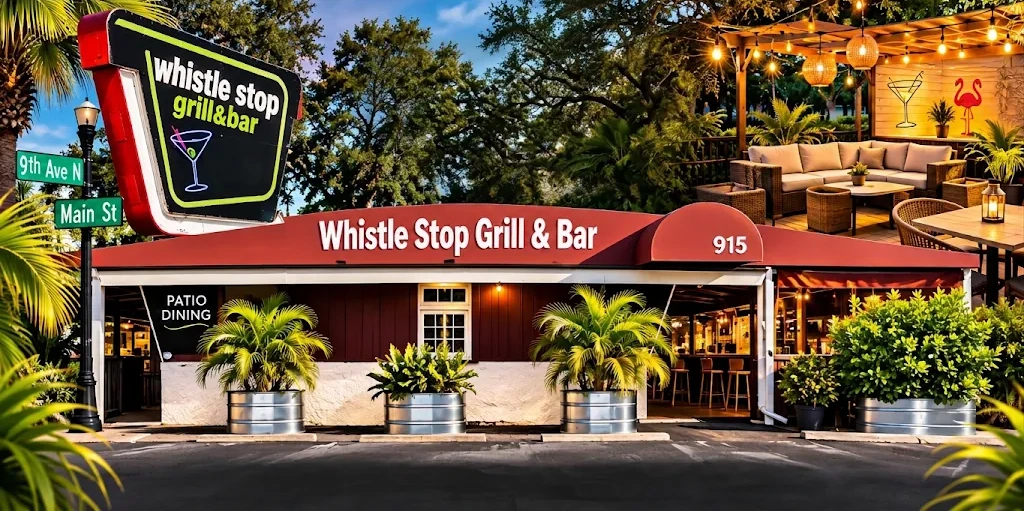
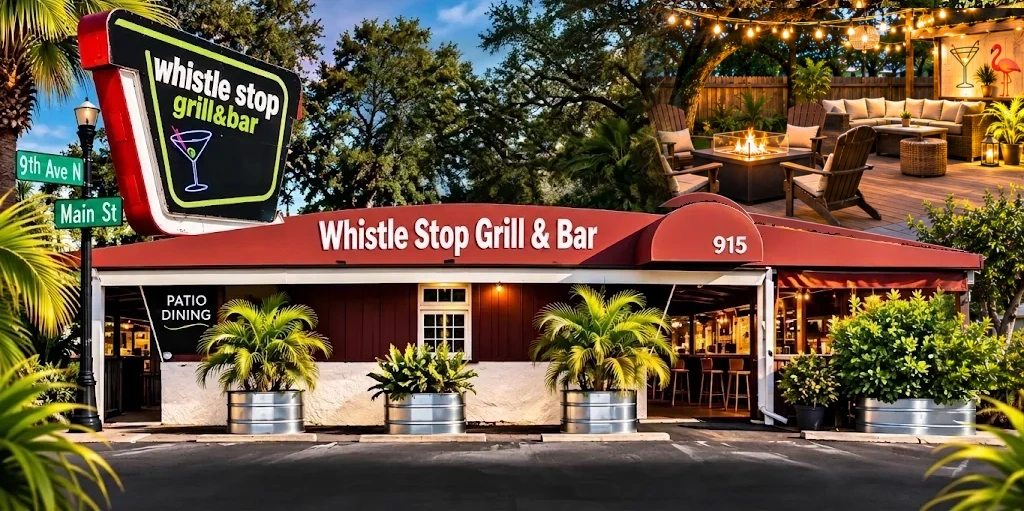
feat: put Dawn's fire pit into the cleaned hero photo

Changed region(s): [[0.625, 0.0, 1.0, 0.7632], [0.1875, 0.2055, 0.2188, 0.2348]]

diff --git a/site/homepage-options/15.html b/site/homepage-options/15.html
@@ -269,7 +269,7 @@
 
   <main>
     <section class="hero hero-art" data-hero="index">
-      <div class="hero-bg"><img class="hero-still" src="assets/gallery/ws-home-page-scene-dawn.webp?v=1" alt="Whistle Stop Grill and Bar at sunset, with the patio, string lights, and palms" width="1024" height="511"></div>
+      <div class="hero-bg"><img class="hero-still" src="assets/gallery/ws-home-page-scene-dawn.webp?v=2" alt="Whistle Stop Grill and Bar at sunset, with the patio, string lights, and palms" width="1024" height="511"></div>
       <div class="hero-overlay" aria-hidden="true"></div>
       <div class="container hero-aside">
         <div class="hero-social-float" data-include="partials/header-socials.html"></div>

diff --git a/site/homepage-options/16.html b/site/homepage-options/16.html
@@ -291,7 +291,7 @@
 
   <main>
     <section class="hero hero-art" data-hero="index">
-      <div class="hero-bg"><img class="hero-still" src="assets/gallery/ws-home-page-scene-dawn.webp?v=1" alt="Whistle Stop Grill and Bar at sunset, with the patio, string lights, and palms" width="1024" height="511"></div>
+      <div class="hero-bg"><img class="hero-still" src="assets/gallery/ws-home-page-scene-dawn.webp?v=2" alt="Whistle Stop Grill and Bar at sunset, with the patio, string lights, and palms" width="1024" height="511"></div>
       <div class="hero-overlay" aria-hidden="true"></div>
       <div class="container hero-aside">
         <div class="hero-social-float" data-include="partials/header-socials.html"></div>

diff --git a/site/homepage-options/19.html b/site/homepage-options/19.html
@@ -24,7 +24,7 @@
 </header>
 <section class="stage cover slides" data-slides data-on="0" tabindex="0" aria-roledescription="carousel" aria-label="Food, live music, and the bar">
   <div class="slides-bg">
-    <img src="../assets/gallery/ws-home-page-scene-dawn.webp?v=1" alt="" width="1024" height="511">
+    <img src="../assets/gallery/ws-home-page-scene-dawn.webp?v=2" alt="" width="1024" height="511">
     <img src="../assets/gallery/WSRocker2.webp" alt="">
     <img src="../assets/gallery/WSBar.webp" alt="">
   </div>

diff --git a/site/homepage-options/17.html b/site/homepage-options/17.html
@@ -23,7 +23,7 @@
   <a class="order" href="../order.html">Order now</a>
 </header>
 <section class="stage contain">
-  <img class="fill" src="../assets/gallery/ws-home-page-scene-dawn.webp?v=1" alt="" width="1024" height="511">
+  <img class="fill" src="../assets/gallery/ws-home-page-scene-dawn.webp?v=2" alt="" width="1024" height="511">
   <div class="veil"></div>
   <div class="copy">
     <p class="eyebrow"><span data-ws="status">Open daily from 11</span> · 915 Main Street</p>

diff --git a/site/homepage-options/18.html b/site/homepage-options/18.html
@@ -23,7 +23,7 @@
   <a class="order" href="../order.html">Order now</a>
 </header>
 <section class="stage cover">
-  <div class="photo" data-parallax style="background-image:url('../assets/gallery/ws-home-page-scene-dawn.webp?v=1')"></div>
+  <div class="photo" data-parallax style="background-image:url('../assets/gallery/ws-home-page-scene-dawn.webp?v=2')"></div>
   <div class="veil"></div>
   <div class="copy">
     <p class="eyebrow">915 Main Street · Safety Harbor</p>

diff --git a/site/homepage-options/23.html b/site/homepage-options/23.html
@@ -23,7 +23,7 @@
   <a class="order" href="../order.html">Order now</a>
 </header>
 <section class="stage contain center">
-  <img class="fill" src="../assets/gallery/ws-home-page-scene-dawn.webp?v=1" alt="" width="1024" height="511">
+  <img class="fill" src="../assets/gallery/ws-home-page-scene-dawn.webp?v=2" alt="" width="1024" height="511">
   <div class="veil"></div>
   <div class="copy">
     <p class="eyebrow">Since 1995 · 915 Main Street</p>

diff --git a/site/homepage-options/24.html b/site/homepage-options/24.html
@@ -23,7 +23,7 @@
   <a class="order" href="../order.html">Order now</a>
 </header>
 <section class="stage contain side">
-  <img class="fill" src="../assets/gallery/ws-home-page-scene-dawn.webp?v=1" alt="" width="1024" height="511">
+  <img class="fill" src="../assets/gallery/ws-home-page-scene-dawn.webp?v=2" alt="" width="1024" height="511">
   <div class="veil"></div>
   <div class="frame">
     <div class="copy">
